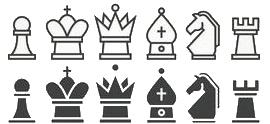
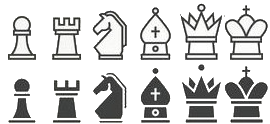
Tablero y colocado de piezas
- Creada función 'Game::CreaEquipo()' para automatizar la creación de piezas
- Añadidos enumerados y constantes para facilitar eso mismo

Changed region(s): [[0.1481, 0.0242, 1.0, 0.4839], [0.1481, 0.5081, 1.0, 0.9919]]

diff --git a/src/Ajedrez/Pieza.h b/src/Ajedrez/Pieza.h
@@ -3,20 +3,24 @@
 
 #include "SDLGameObject.h"
 
+enum tipo_pieza
+{
+	Peon, Torre, Cabllo, Alfil, Reina, Rey
+};
+
+enum equipo_pieza
+{
+	Blancas, Negras
+};
+
+
 /* Hereda de GameObject */
 class Pieza : public SDLGameObject
 {
 public:
 
 	/* Constructora */
-	Pieza(const LoaderParams* pParams) : SDLGameObject(pParams) 
-	{
-		frameRow = 0;
-		frameCol = 0;
-		initialVel = Vector2D(1, 1);
-		m_velocity = initialVel;
-		//m_acceleration = Vector2D(1, 1); 
-	}
+	Pieza(const LoaderParams* pParams, tipo_pieza tipo, equipo_pieza equipo);
 
 	/* Heredadas*/
 	virtual void Draw();
@@ -33,12 +37,13 @@ private:
 	void InputConMando();
 	void InputConRaton();
 	void InputConTeclado();
-	Vector2D initialVel;
-	Vector2D prevVel;
 
 	// Cambio de frame para la pieza
 	int frameCol;
 	int frameRow;
+
+	//tipo
+	tipo_pieza m_tipo;
 };
 
 #endif /* defined(__Pieza__) */

diff --git a/src/Ajedrez/Main.cpp b/src/Ajedrez/Main.cpp
@@ -13,7 +13,7 @@ int main(int argc, char* args[])
 
 	// Inicializar el juego
 	std::cout << "game init attempt...\n";
-	if(Game::Instance()->Init("Ajedrez", 100, 100, 640, 480, false))
+	if(Game::Instance()->Init("Ajedrez", 100, 100, 500, 500, false))
 	{
 		// Bucle principal
 		std::cout << "game init success!\n";
